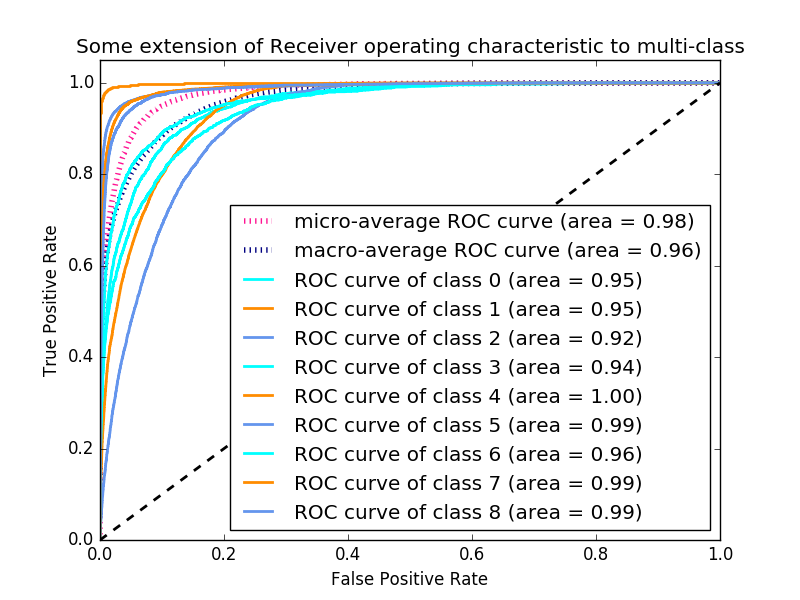
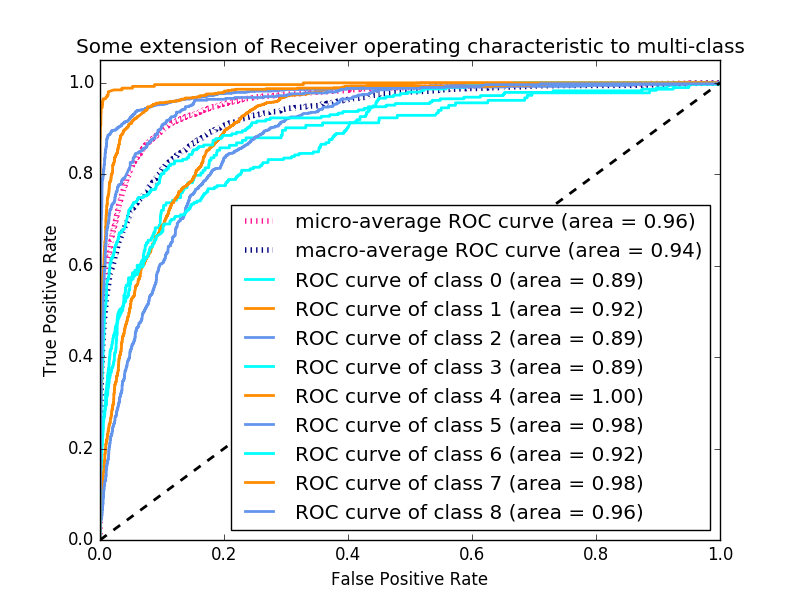
feature_importance

diff --git a/multiclass_classification/train.py b/multiclass_classification/train.py
@@ -23,8 +23,8 @@ data = np.loadtxt('/home/ubuntu/train.csv',skiprows=1, delimiter=',',
 sz = data.shape
 
 np.random.shuffle(data)
-train = data[:int(sz[0] * 0.2), :]
-test = data[int(sz[0] * 0.2):, :]
+train = data[:int(sz[0] * 0.9), :]
+test = data[int(sz[0] * 0.9):, :]
 
 train_X = train[:, :93]
 train_Y = train[:, 94]
@@ -49,7 +49,7 @@ param['num_class'] = 9
 watchlist = [(xg_train, 'train'), (xg_test, 'test')]
 num_round = 5
 model = xgb.XGBClassifier(max_depth=6,objectiv='multi:softmax',eta=0.1,silent=0,n_jobs=40,num_class=9)
-#model.fit(train_X,train_Y)
+model.fit(train_X,train_Y)
 
 
 #bst = xgb.train(param, xg_train, num_round, watchlist)
@@ -58,6 +58,10 @@ model = xgb.XGBClassifier(max_depth=6,objectiv='multi:softmax',eta=0.1,silent=0,
 
 #res = model.predict(test_X)
 #pred = model.predict_proba(test_X)
+
+#print(model.booster().get_score(importance_type='weight'))
+#print(model.booster().plot_importance(model))
+
 '''
 for i in range(test_X.shape[0]):
     if res[i] == test_Y[i]:    
@@ -65,64 +69,64 @@ for i in range(test_X.shape[0]):
         print(test_Y[i])
 '''
 #pred_b = label_binarize(pred, classes=range(0,9))
+def plot(test_Yb, pred, param, filename="otto"):
+    fpr = dict()
+    tpr = dict()
 
-fpr = dict()
-tpr = dict()
-
-roc_auc = dict()
+    roc_auc = dict()
 
 
-for i in range(param['num_class']):
-    fpr[i], tpr[i], _ = roc_curve(test_Yb[:, i],pred[:, i])
-    roc_auc[i] = auc(fpr[i], tpr[i])
+    for i in range(param['num_class']):
+        fpr[i], tpr[i], _ = roc_curve(test_Yb[:, i],pred[:, i])
+        roc_auc[i] = auc(fpr[i], tpr[i])
     
-fpr["micro"], tpr["micro"], _ = roc_curve(test_Yb.ravel(), pred.ravel())
-roc_auc["micro"] = auc(fpr["micro"], tpr["micro"])
+    fpr["micro"], tpr["micro"], _ = roc_curve(test_Yb.ravel(), pred.ravel())
+    roc_auc["micro"] = auc(fpr["micro"], tpr["micro"])
 
-n_classes = param["num_class"]
+    n_classes = param["num_class"]
 # Compute macro-average ROC curve and ROC area
 
 # First aggregate all false positive rates
-all_fpr = np.unique(np.concatenate([fpr[i] for i in range(n_classes)]))
+    all_fpr = np.unique(np.concatenate([fpr[i] for i in range(n_classes)]))
 
 # Then interpolate all ROC curves at this points
-mean_tpr = np.zeros_like(all_fpr)
-for i in range(n_classes):
-    mean_tpr += interp(all_fpr, fpr[i], tpr[i])
+    mean_tpr = np.zeros_like(all_fpr)
+    for i in range(n_classes):
+        mean_tpr += interp(all_fpr, fpr[i], tpr[i])
 
 # Finally average it and compute AUC
-mean_tpr /= n_classes
+    mean_tpr /= n_classes
 
-fpr["macro"] = all_fpr
-tpr["macro"] = mean_tpr
-roc_auc["macro"] = auc(fpr["macro"], tpr["macro"])
+    fpr["macro"] = all_fpr
+    tpr["macro"] = mean_tpr
+    roc_auc["macro"] = auc(fpr["macro"], tpr["macro"])
 
 # Plot all ROC curves
-plt.figure()
-plt.plot(fpr["micro"], tpr["micro"],
+    plt.figure()
+    plt.plot(fpr["micro"], tpr["micro"],
          label='micro-average ROC curve (area = {0:0.2f})'
                ''.format(roc_auc["micro"]),
          color='deeppink', linestyle=':', linewidth=4)
 
-plt.plot(fpr["macro"], tpr["macro"],
+    plt.plot(fpr["macro"], tpr["macro"],
          label='macro-average ROC curve (area = {0:0.2f})'
                ''.format(roc_auc["macro"]),
          color='navy', linestyle=':', linewidth=4)
 
-colors = cycle(['aqua', 'darkorange', 'cornflowerblue'])
-for i, color in zip(range(n_classes), colors):
-    plt.plot(fpr[i], tpr[i], color=color, lw=2,
+    colors = cycle(['aqua', 'darkorange', 'cornflowerblue'])
+    for i, color in zip(range(n_classes), colors):
+        plt.plot(fpr[i], tpr[i], color=color, lw=2,
              label='ROC curve of class {0} (area = {1:0.2f})'
              ''.format(i, roc_auc[i]))
 
-plt.plot([0, 1], [0, 1], 'k--', lw=2)
-plt.xlim([0.0, 1.0])
-plt.ylim([0.0, 1.05])
-plt.xlabel('False Positive Rate')
-plt.ylabel('True Positive Rate')
-plt.title('Some extension of Receiver operating characteristic to multi-class')
-plt.legend(loc="lower right")
-plt.savefig("otto.png")
+    plt.plot([0, 1], [0, 1], 'k--', lw=2)
+    plt.xlim([0.0, 1.0])
+    plt.ylim([0.0, 1.05])
+    plt.xlabel('False Positive Rate')
+    plt.ylabel('True Positive Rate')
+    plt.title('Some extension of Receiver operating characteristic to multi-class')
+    plt.legend(loc="lower right")
+    plt.savefig(filename)
 
 
 #error_rate = np.sum(res != test_Y) / test_Y.shape[0]
@@ -131,9 +135,17 @@ plt.savefig("otto.png")
 # do the same thing again, but output probabilities
 param['objective'] = 'multi:softprob'
 bst = xgb.train(param, xg_train, num_round, watchlist)
+#print(xgb.get_score())
 # Note: this convention has been changed since xgboost-unity
 # get prediction, this is in 1D array, need reshape to (ndata, nclass)
 pred_prob = bst.predict(xg_test).reshape(test_Y.shape[0], param['num_class'])
 pred_label = np.argmax(pred_prob, axis=1)
+plot(test_Yb, pred_prob, param, "otto")
+print(bst.get_score())
+#print(xgb.plot_importance(bst))
+plt.figure()
+xgb.plot_importance(model,max_num_features=20)
+plt.savefig("imp.png")
+
 #error_rate = np.sum(pred != test_Y) / test_Y.shape[0]
 #print('Test error using softprob = {}'.format(error_rate))
